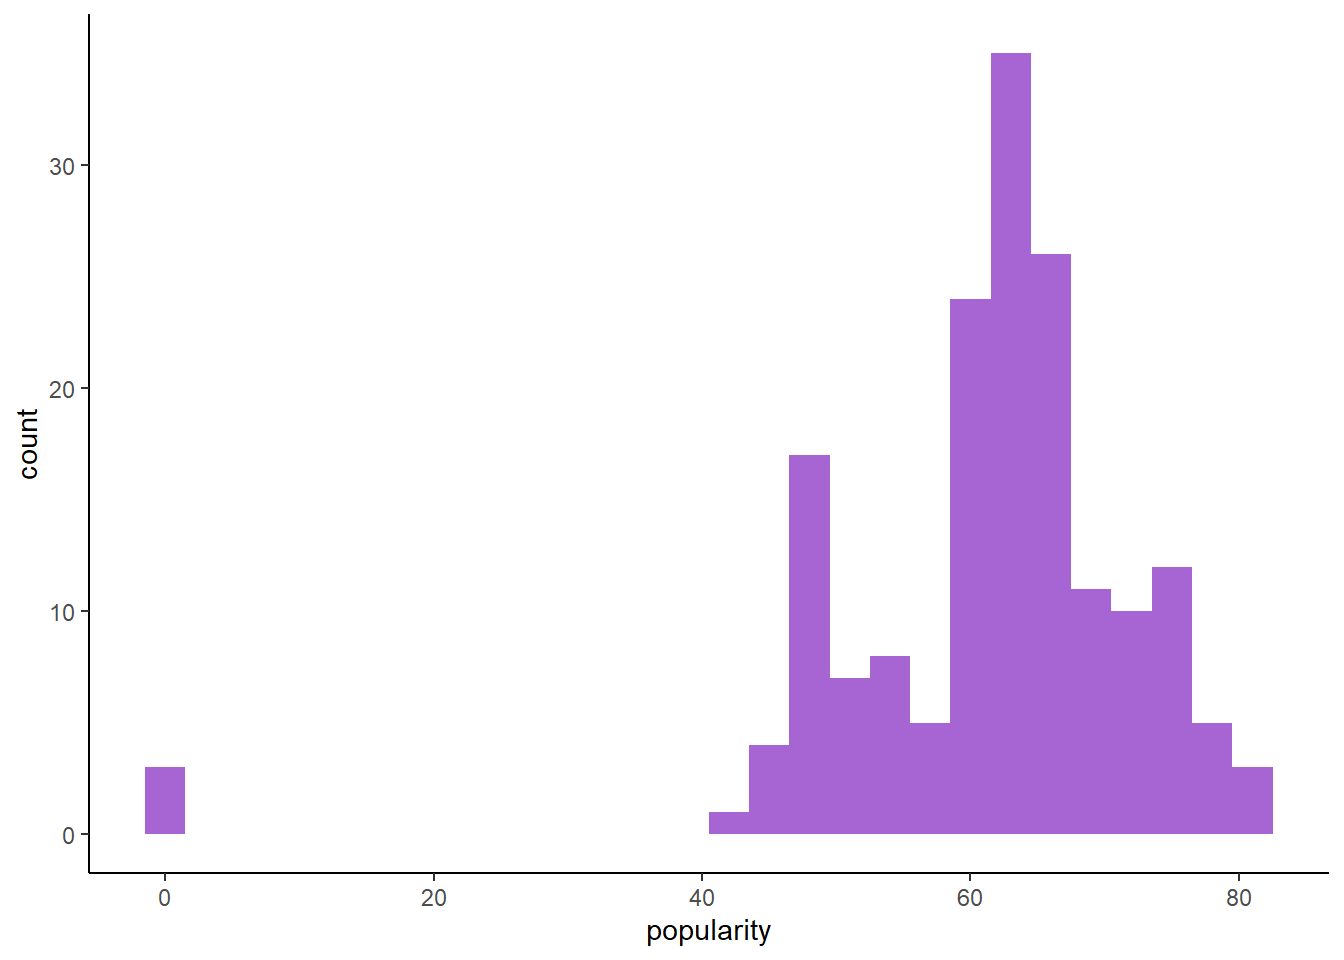
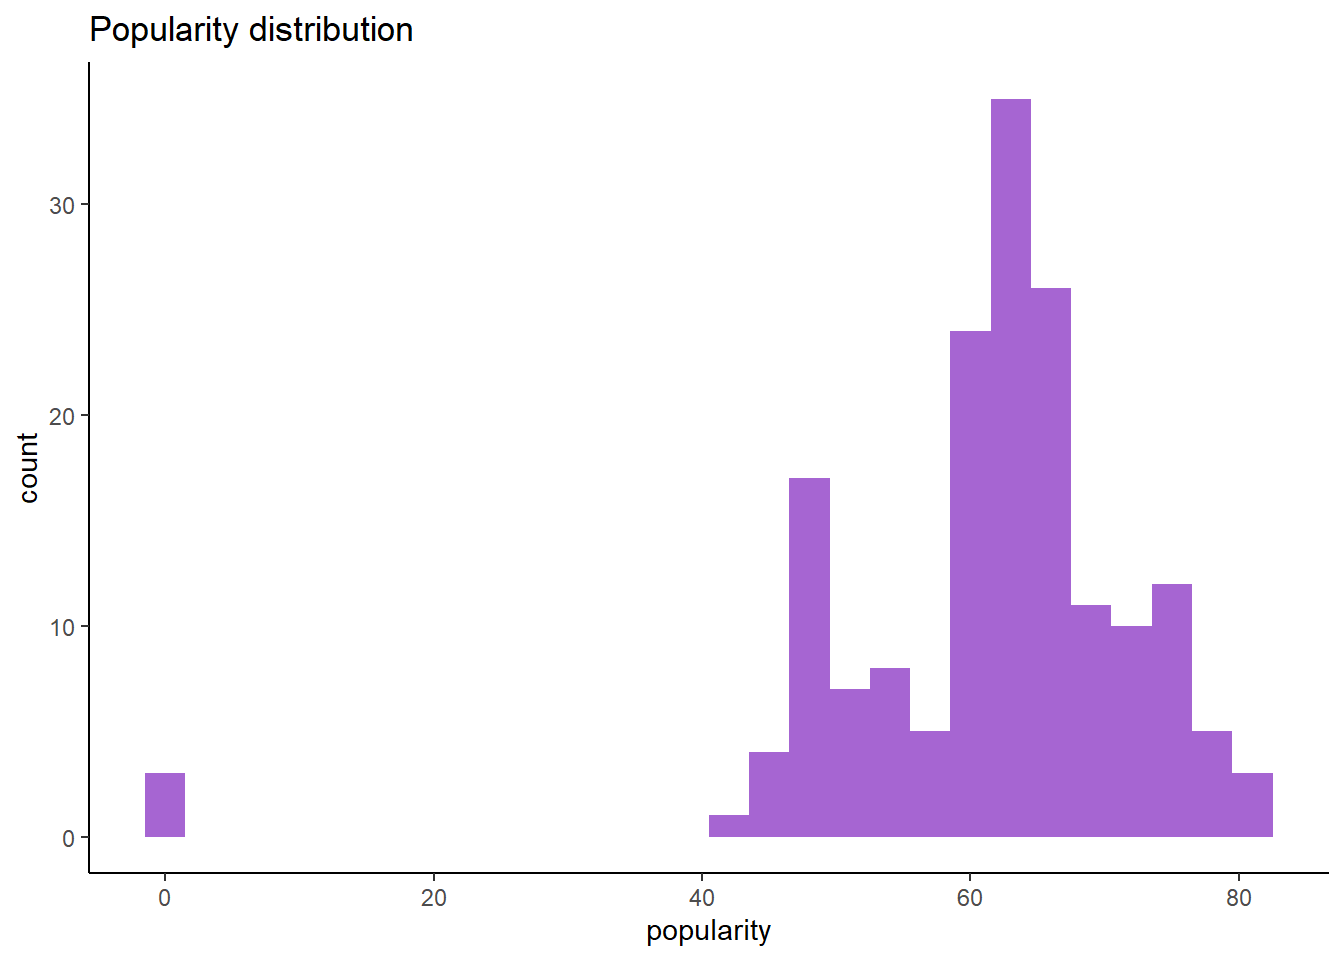
Added plot with glitter :)

diff --git a/content/blog/2022-02-09-taylor/index.knit.md b/content/blog/2022-02-09-taylor/index.knit.md
@@ -163,34 +163,16 @@ taylor$album <- ordered(taylor$album,
                  "evermore (deluxe version)"))
 ```
 
-
-Let's visualize the number of songs per album but adding some glitter :)
-
-
-```r
-img = "https://besthqwallpapers.com/Uploads/25-5-2020/134762/thumb2-gold-glittering-background-4k-gold-glitter-texture-close-up-sparkles.jpg"
-taylor %>% 
-  ggplot(aes(x=album)) +
-  geom_textured_bar(image = img, color = "white", width = 0.8) +
-  theme_classic() +
-  ggtitle("Songs per album") + 
-  theme(axis.title.x = element_blank(),
-        axis.title.y = element_blank()) +
-  coord_flip()
-```
-
-<img src="{{< blogdown/postref >}}index_files/figure-html/geom_textured-1.png" width="672" />
-
-Now, we can start exploring the numeric variables. Firstly, the `popularity` variable has a mean of 61.23 and we notice some songs has a value of 0. It turns out, these are tracks included in the deluxe version of _1989_ but they are not actual songs.
+Now, we can start exploring the numeric variables. Firstly, the `popularity` variable has a mean of 61.23 and we notice some songs has a value of 0. It turns out, these are tracks included in the deluxe version of _1989_ but they are not actual songs. I chose to drop these three observations.
 
 
 ```r
 ggplot(taylor, aes(x=popularity)) +
   geom_histogram(fill=colores[2],binwidth = 3) +
-  theme_classic()
+  theme_classic() + ggtitle("Popularity distribution")
 ```
 
-<img src="{{< blogdown/postref >}}index_files/figure-html/popularity-1.png" width="672" />
+<img src="index_files/figure-html/popularity-1.png" width="672" />
 
 ```r
 summary(taylor$popularity)
@@ -211,7 +193,20 @@ filter(taylor, popularity==0) %>% select(name, album, popularity)
 ## 2 I Wish You Would - Voice Memo 1989 (Deluxe)          0
 ## 3      Blank Space - Voice Memo 1989 (Deluxe)          0
 ```
-Now, let's have a quick look at the distribution of the other numeric variables.
 
-<img src="{{< blogdown/postref >}}index_files/figure-html/num_vars-1.png" width="672" />
+```r
+taylor <- taylor %>% filter(popularity>0)
+
+ggplot(taylor, aes(x=popularity)) +
+  geom_histogram(fill=colores[2],binwidth = 3) +
+  theme_classic() + ggtitle("Popularity distribution (without non-songs tracks)")
+```
+
+<img src="index_files/figure-html/popularity-2.png" width="672" />
+
+We can compare the popularity of each album by taking the mean of its songs' popularity (and let's add some glitter).
+
+
+
+
 

diff --git a/content/blog/_index.md b/content/blog/_index.md
@@ -14,6 +14,7 @@ layout: list-sidebar # list, list-sidebar, list-grid
 sidebar: 
   title: 
   description: Mis intereses
+  
     Pequeños posts sobre temas que me interesa analizar con datos y visualizaciones.
     
   author: "The R Markdown Team @RStudio"
